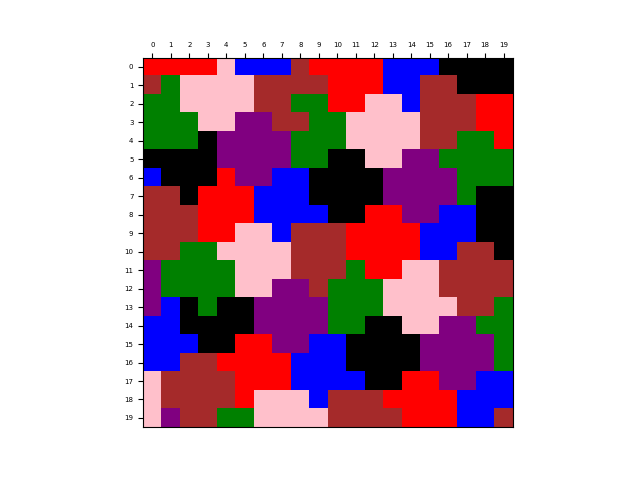
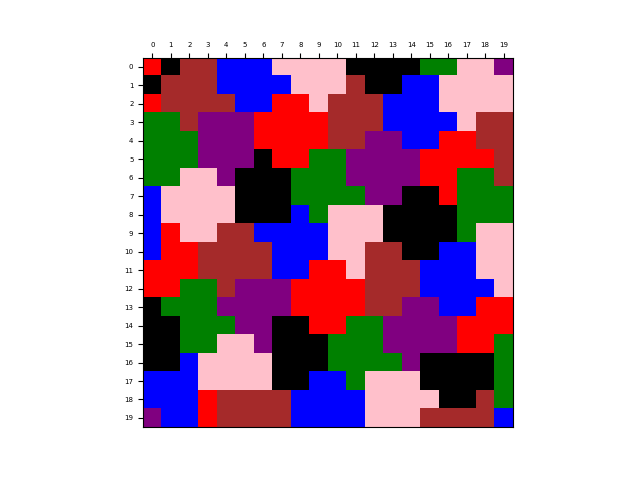
added command line support

diff --git a/sat_solver_bits.py b/sat_solver_bits.py
@@ -5,35 +5,42 @@ import pairs_helper
 # We set up a correspondence between pixel and color pairs and positive integers 
 # representing boolean variables in the CNF formula used in the SAT solver
 
+def get_bit(int, b):
+    return (int >> b) & 1
+    
+def set_bit(int, b):
+    return (int | (1 << b))
+    
+def scale_bit(b):
+    return 2*b - 1
+
 # Converts a pixel and color pair to a corresponding unique positive integer representing a boolean variable in a CNF formula
-def pixel_color_to_int(p, k, N, K):
-    return (N*p[0] + p[1])*K + k + 1
+def pixel_bit_to_int(p, b, N, B):
+    return (N*p[0] + p[1])*B + b + 1
 
 # Converts an integer corresponding to a boolean variable to a unique pixel and color pair
-def int_to_pixel_color(sat_var, N, K):
-    square = (sat_var - 1) / K
+def int_to_pixel_bit(sat_var, N, B):
+    square = (sat_var - 1) / B
     i = square / N
     j = square % N
-    k = (sat_var - 1) % K
-    return (i, j), k
+    b = (sat_var - 1) % B
+    return (i, j), b
     
 # The number of boolean variables in the CNF formula for a coloring problem
-def number_of_variables(N, K):
-    return N*N*K                # There is a boolean variable for each pixel and color pair
+def number_of_variables(N, B):
+    return N*N*B                # There is a boolean variable for each pixel and color pair
 
 # Sets a pixel to a certain color by appending unary clauses to the cnf formula
-def set_pixel_color(cnf, i, j, color, N, K):
-    for k in range(K):
-        scale = -1
-        if k == color:
-            scale = 1
-        cnf.append([scale*pixel_color_to_int((i, j), k, N, K)])
+def set_pixel_color(cnf, i, j, color, N, B):
+    bit_scale = [scale_bit(get_bit(color, b)) for b in range(B)]
+    for b in range(B):
+        cnf.append([bit_scale[b]*pixel_bit_to_int((i, j), b, N, B)])
     return
     
 # Given a list of pairs of adjacent pixels, this function converts the coloring problem to an equivalent CNF formula
 # In this CNF formula, there is a variable for each pixel and color pair, and this set variable is set to true if we
 # color that pixel with that color in a satisfying coloring
-def pairs_to_SAT(pairs, S, N, K):
+def pairs_to_SAT(pairs, S, N, B, K):
     cnf = []
     
     # We restrict three colors using an embedded equilateral triangle to cut out some redundant SAT solutions
@@ -42,45 +49,40 @@ def pairs_to_SAT(pairs, S, N, K):
     # Constrain first pixel to first color to save time
     i0 = 0
     j0 = 0
-    set_pixel_color(cnf, i0, j0, 0, N, K)
+    set_pixel_color(cnf, i0, j0, 0, N, B)
     
     # Constrain pixel that is a distance of 1 horizontally from (0, 0) to be second color
     i1 = 0
     j1 = int(math.floor(pixels_per_unit))
-    set_pixel_color(cnf, i1, j1, 1, N, K)
+    set_pixel_color(cnf, i1, j1, 1, N, B)
     
     # Constrain third pixel equidistant from first and second with length 1
     i2 = int(math.floor(pixels_per_unit*(math.sqrt(3)/2)))
     j2 = int(math.floor(pixels_per_unit/2))
-    set_pixel_color(cnf, i2, j2, 2, N, K)
-    
-    # For each pixel and color pair, add a clause ensuring that at least one pixel color pair set to true
-    for i in range(N):
-        for j in range(N):
-            clause = []
-            for k in range(K):
-                clause.append(pixel_color_to_int((i, j), k, N, K))
-            cnf.append(clause)
-            
-            for k1 in range(K):
-                for k2 in range(k1):
-                    cnf.append([-1*pixel_color_to_int((i, j), k1, N, K), -1*pixel_color_to_int((i, j), k2, N, K)])
+    set_pixel_color(cnf, i2, j2, 2, N, B)
     
     # For each pair of adjacent pixels, ensure that both are not the same color
     for pair in pairs:
         for k in range(K):
-            cnf.append([-1*pixel_color_to_int(pair[0], k, N, K), -1*pixel_color_to_int(pair[1], k, N, K)])
+            clause = []
+            for b in range(B):
+                for i in range(2):
+                    clause.append(-1*scale_bit(get_bit(k, b))*pixel_bit_to_int(pair[i], b, N, B))
+            cnf.append(clause)
     
     return cnf
     
 # Given a satisfying assignment for the formula returned by pairs_to_SAT, this function converts it to a coloring
-def solution_to_coloring(solution, N, K):
+def solution_to_coloring(solution, N, B, K):
     coloring = [[0 for j in range(N)] for i in range(N)]
-    num_var = number_of_variables(N, K)
-    for sat_var in range(num_var):
-        if solution[sat_var] > 0:
-            pixel, k = int_to_pixel_color(sat_var + 1, N, K)
-            coloring[pixel[0]][pixel[1]] = k
+    for i in range(N):
+        for j in range(N):
+            color = 0
+            for b in range(B):
+                if solution[pixel_bit_to_int((i, j), b, N, B) - 1] > 0:
+                    color = set_bit(color, b)
+            coloring[i][j] = color     
+            
     return coloring
 
 # Given parameters S (side length of square), N (number of pixels on side of square), K (number of colors)
@@ -88,8 +90,8 @@ def solution_to_coloring(solution, N, K):
 # solver and returns a satisfying coloring or "UNSAT" if the problem is not satisfiable
 def SAT_solve(S, N, K, wrapping, itersolve=False):
     pairs = pairs_helper.list_of_pixel_pairs(S, N, wrapping, pairs_helper.Format.LIST)
-
-    cnf = pairs_to_SAT(pairs, S, N, K)
+    B = int(math.ceil(math.log(K, 2)))
+    cnf = pairs_to_SAT(pairs, S, N, B, K)
     
     solution = []
     if itersolve:
@@ -100,9 +102,9 @@ def SAT_solve(S, N, K, wrapping, itersolve=False):
         return solution
     
     if itersolve:
-        return [solution_to_coloring(sol, N, K) for sol in solution]
+        return [solution_to_coloring(sol, N, B, K) for sol in solution]
     else:
-        return solution_to_coloring(solution, N, K)
+        return solution_to_coloring(solution, N, B, K)
 
 # Like SAT_Solve but instead of returning one solution, it returns a list of all solutions
 def SAT_itersolve(S, N, K, wrapping):

diff --git a/coloring.py b/coloring.py
@@ -1,0 +1,83 @@
+import numpy
+import argparse
+import simulated_annealing
+import sat_solver
+import sat_solver_bits
+
+canUseMatPlotLib = True
+try:
+    import printColourGrid
+except ImportError:
+    canUseMatPlotLib = False
+
+
+# DEFAULT CONSTANTS
+S = 4 # Side length of nxn square
+N = 20 # Number of pixels on one side of square
+K = 7 # Number of colors
+INIT_TEMP = 10 # Initial temperature for the simulated annealing algorithm
+COOLING_RATE = 0.15 # Cooling rate for the simulated annealing algorithm. Each iteration, T is multiplied by (1-cooling_rate)
+
+
+parser = argparse.ArgumentParser(description="Find discrete colorings of the plane. If command line arguments not used, the default constants in the .py will be used instead.")
+
+parser.add_argument('--sat', action='store_true', help='use the SAT solver')
+parser.add_argument('--sim', action='store_true', help='use simulated annealing')
+parser.add_argument('-s', '-S', type=float, default=S, help='side length of nxn square')
+parser.add_argument('-n', '-N', type=int, default=N, help='number of pixels on one side of square')
+parser.add_argument('-k', '-K', type=int, default=K, help='number of colors')
+parser.add_argument('--wrapping', '--wrap',  action='store_true', help='Whether or not we wrap distances across edges of square when finding pairs of pixels unit distance from each other')
+parser.add_argument('--iter', action='store_true', help='iterate through all solutions for the SAT solver')
+parser.add_argument('--bits', action='store_true', help='use SAT solver with bit variales')
+parser.add_argument('-t', type=int, default=INIT_TEMP, help='initial temperature for simulated annealing')
+parser.add_argument('-cr', type=float, default=COOLING_RATE, help='cooling rate for simulated annealing')
+parser.add_argument('--npy', action='store_true', help='store coloring in .npy file instead of png')
+
+args = parser.parse_args()
+print args
+
+colorings = []
+name = 's' + (str(args.s)).replace('.',',') + '_n' + str(args.n) + '_k' + str(args.k) + '_wrapping' + str(args.wrapping)
+
+if args.sim:
+    name = 'sim_annealing/' + name + '_temp' + str(INIT_TEMP) + '_cr' + (str(COOLING_RATE)).replace('.',',')
+    
+    # use simulated annealing to find an optimal coloring given the parameters
+    coloring, cost = simulated_annealing.simulated_annealing(args.s, args.n, args.k, args.wrapping, args.t, args.cr)
+    colorings.append(coloring)
+    
+    name += '_cost' + str(cost)
+    
+else:
+    if not args.iter:
+        name = 'SAT/' + name
+        coloring = None
+        if not args.bits:
+            coloring = sat_solver.SAT_solve(args.s, args.n, args.k, args.wrapping)
+        else:
+            name = name + '_bits'
+            coloring = sat_solver_bits.SAT_solve(args.s, args.n, args.k, args.wrapping)
+        
+        if coloring == "UNSAT":
+            print "This coloring problem is unsatisfiable."
+        else:
+            colorings.append(coloring)
+            
+    else:
+        name = 'SAT_iter/' + name + '_iter'
+        colorings = sat_solver.SAT_itersolve(args.s, args.n, args.k, args.wrapping)
+        if not colorings:
+            print "This coloring problem is unsatisfiable."
+
+num_col = 0
+for coloring in colorings:
+    current_name = name
+    if args.iter:
+        current_name = current_name + str(num_col)
+    if args.npy or not canUseMatPlotLib:
+        numpy.save('./colorarrays/' + current_name, coloring)
+        print '.npy saved'
+    else:
+        printColourGrid.create_coloring(coloring, args.n, args.k, './Colorings/' + current_name)
+        print 'Fig saved'
+    num_col += 1

diff --git a/printColourGrid.py b/printColourGrid.py
@@ -28,6 +28,5 @@ def create_coloring(data, size, numCol=7, name='test'):
     plt.xticks(fontsize=5)
     plt.yticks(fontsize=5)
 
-    fig.savefig('./Colorings/' + name)
-    print 'Fig saved'
+    fig.savefig(name)
     plt.close(fig)
